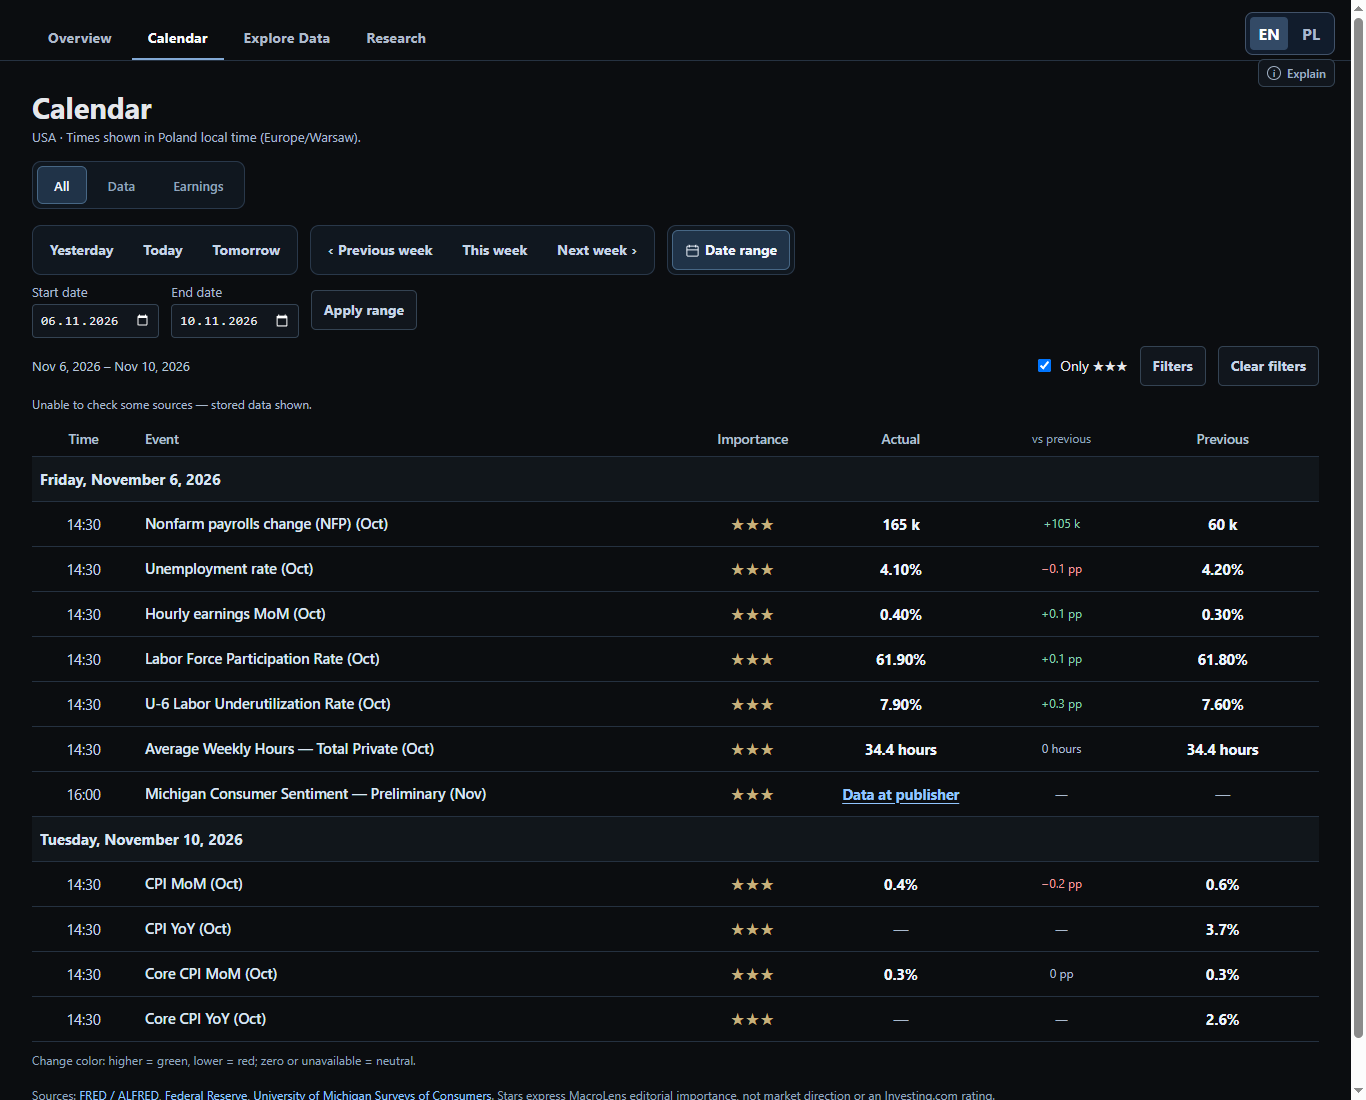
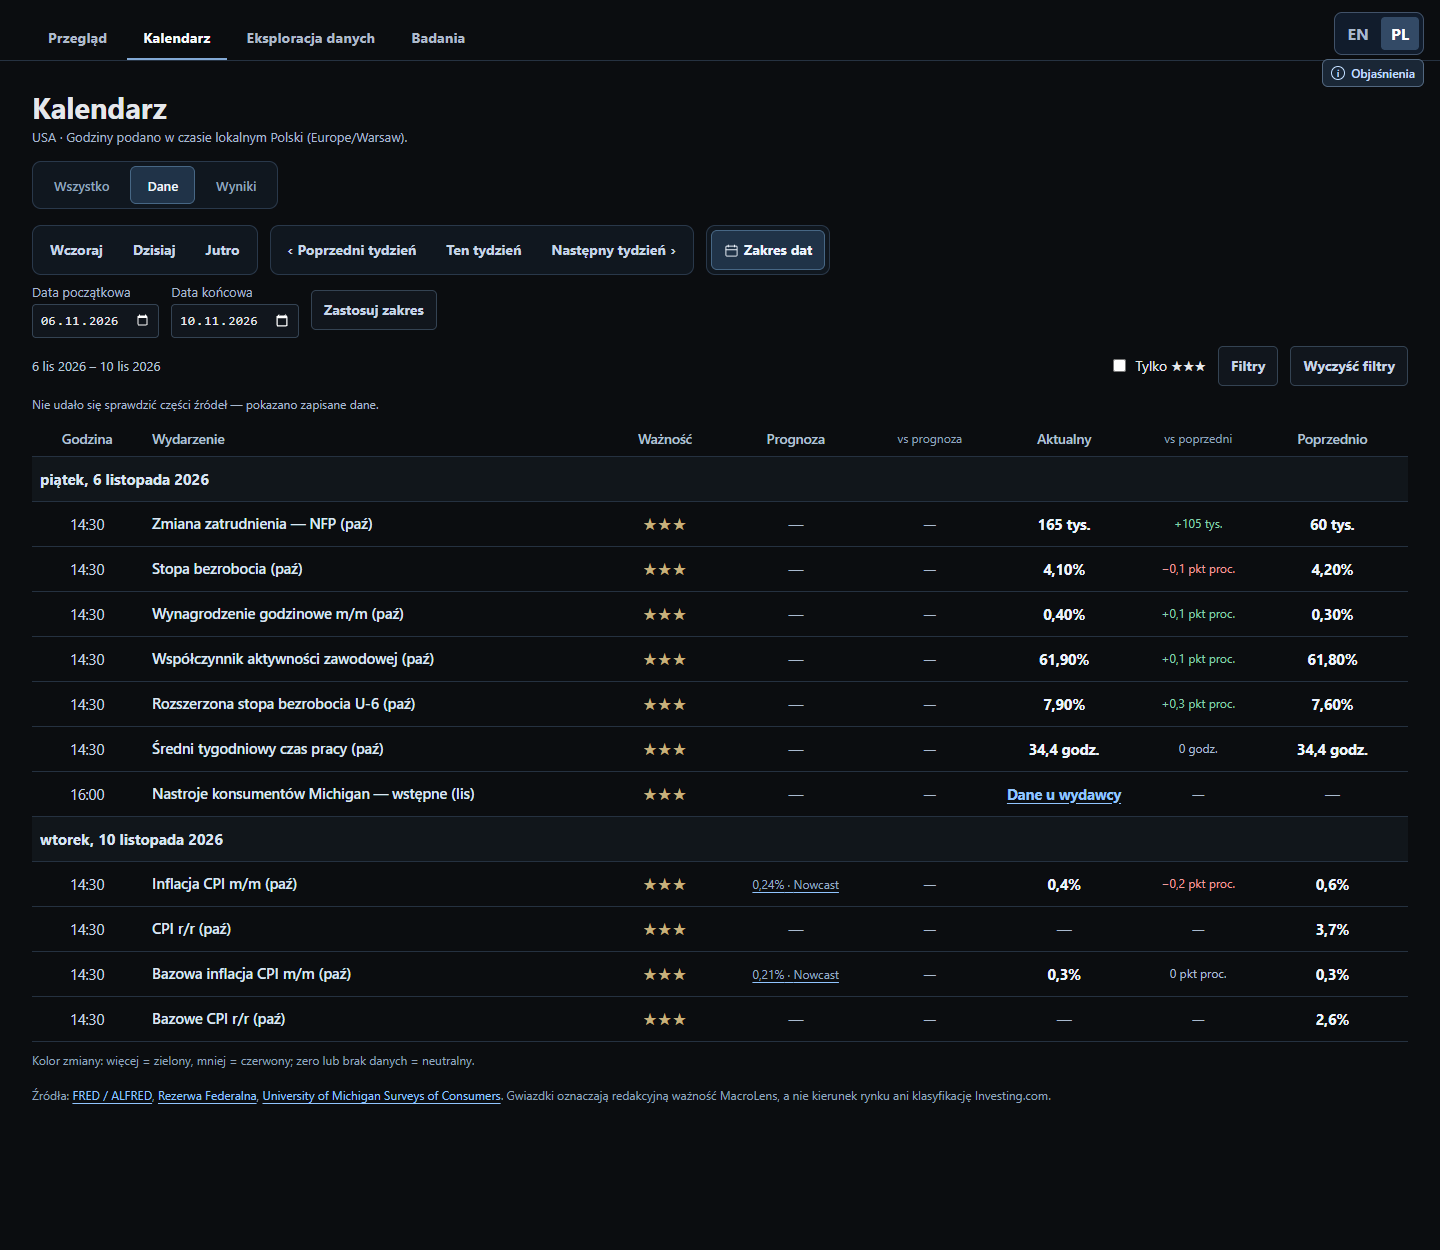
Refresh Polish portfolio README and authentic analytics screenshots

diff --git a/README.md b/README.md
@@ -10,11 +10,18 @@ Python · FastAPI · PostgreSQL · React · TypeScript · Docker
 
 [![MacroLens CI](https://github.com/pecakxkamil/macrolens/actions/workflows/ci.yml/badge.svg)](https://github.com/pecakxkamil/macrolens/actions/workflows/ci.yml)
 
-[Research](#research) · [Explore Data](#explore-data) · [Galeria](#galeria) · [Roadmapa](#roadmapa) · [Dokumentacja](docs/architecture.md) · [Uruchomienie](#uruchomienie-lokalne)
+[Badania](#badania) · [Eksploracja danych](#eksploracja-danych) · [Galeria](#galeria) · [Roadmapa](#roadmapa) · [Dokumentacja](docs/architecture.md) · [Uruchomienie](#uruchomienie-lokalne)
 
 ![Overview — przekrojowy obraz gospodarki USA w sześciu obszarach](docs/screenshots/overview.png)
 
-*Overview: rynek pracy, inflacja, wzrost, konsument, mieszkalnictwo i warunki finansowe — odczyty, poprzednie wartości i kontekst.*
+*Przegląd: sześć obszarów gospodarki USA, aktualne i poprzednie odczyty oraz nadchodzące publikacje.*
+
+W jednym miejscu można sprawdzić, co zmieniło się w gospodarce, a następnie
+przejść do historii wskaźnika lub szczegółów publikacji. Strzałki pokazują
+kierunek zmiany liczbowej, a osobne **+/−/± — potencjalny wpływ na USD**.
+To interpretacja względem poprzedniego odczytu, nie sygnał transakcyjny
+ani ocena zaskoczenia względem konsensusu. Roczne CPI ma własny, datowany wiersz;
+ostatni dostępny okres nie jest przedstawiany jako nowsza publikacja.
 
 ## Najciekawsze możliwości analityczne
 
@@ -24,9 +31,16 @@ Python · FastAPI · PostgreSQL · React · TypeScript · Docker
 - **Syntetyczny obraz gospodarki:** eksperymentalny Macro Conditions Index (MCI) z sześcioma subindeksami i jawnym rozkładem składników.
 - **Kontekst publikacji:** Actual/Previous, okres obserwacji, pochodzenie danych, rewizje i zachowane prognozy sprzed wydarzenia.
 
-## Research
+## Od publikacji do analizy
 
-### Compare Data — własne zestawienia wskaźników
+1. **Przegląd:** sprawdź odczyty w sześciu obszarach i najbliższe wydarzenia.
+2. **Kalendarz:** otwórz publikację, porównaj Actual/Previous i sprawdź okres, źródło oraz rewizje.
+3. **Eksploracja danych:** zobacz dłuższą historię, wybierz miarę lub gotowy zestaw wykresów.
+4. **Badania:** zestaw własne serie i oceń ich współzmienność na jawnie opisanej próbie.
+
+## Badania
+
+### Porównaj dane — własne zestawienia wskaźników
 
 Porównanie **dwóch lub trzech serii** makro lub zapisanych cen Nasdaq i Bitcoina,
 z osobnym wyborem miary i zakresu 1–10 lat albo całej historii.
@@ -46,17 +60,19 @@ indeksowanie nie zmienia danych użytych do korelacji.
 **Korelacja nie oznacza przyczynowości ani zdolności przewidywania rynku.**
 MCI jest eksperymentalnym wskaźnikiem opisowym, nie modelem recesji ani sygnałem inwestycyjnym.
 
-## Explore Data
+## Eksploracja danych
 
-**Data sets:** wyszukiwarka i filtry wskaźników, historia pojedynczego szeregu,
+**Zestawy danych:** wyszukiwarka i filtry wskaźników, historia pojedynczego szeregu,
 aktualna i poprzednia wartość z datami, jednostki, definicja i źródło.
 Do wyboru są dostępne transformacje i zakresy 1–10 lat.
 
-**Curated charts** zawiera gotowe porównania: CPI i Core CPI, PCE i Core PCE,
+**Wybrane wykresy** grupują dane w sześciu obszarach. Zestaw rynku pracy pokazuje
+stopę i liczbę bezrobotnych, miesięczną zmianę zatrudnienia oraz średnią
+czterotygodniową nowych wniosków o zasiłek. Pozostałe zestawy obejmują CPI i Core CPI, PCE i Core PCE,
 realną konsumpcję i dochód, rozpoczęte budowy i pozwolenia oraz rentowności
 obligacji 2Y/10Y. Są też m.in. momentum CPI i spread krzywej dochodowości.
 Interaktywne legendy pozwalają ukrywać serie, a tooltipy odczytywać wartości
-i daty. Własny dobór wielu serii jest dostępny w Research → Compare Data.
+i daty. Własny dobór wielu serii jest dostępny w Badania → Porównaj dane.
 
 ### Co można analizować w MacroLens?
 
@@ -81,23 +97,27 @@ i rewizje. Nowcasty i guidance pozostają odrębne od konsensusu rynkowego.
 Prawdziwe widoki lokalnej aplikacji z zapisanymi danymi. Obrazy są duże i ułożone
 pojedynczo; [pochodzenie i warunki wykonania](docs/screenshots/README.md).
 
-### Research — porównanie dwóch serii
+### Badania — Nasdaq, Bitcoin i liczba bezrobotnych
 
-![Research: bezrobocie i stopa Fed, dziesięcioletnia historia oraz statystyka korelacji](docs/screenshots/research.png)
+![Badania: Nasdaq Composite, Bitcoin i liczba bezrobotnych na wspólnym wykresie z trzema osiami oraz statystykami par](docs/screenshots/research.png)
 
-*Wspólny wykres UNRATE i DFF, wybór zakresu, liczba sparowanych obserwacji i korelacja Pearsona. To opis zapisanej próby, nie wniosek o przyczynowości.*
+*Pięcioletnie porównanie NASDAQCOM, CBBTCUSD i UNEMPLOY. Każda seria ma własną jednostkę; poniżej wykresu widać korelację Pearsona, liczbę obserwacji i zakres dat dla każdej pary. Liczba bezrobotnych to poziom w tysiącach osób, nie stopa bezrobocia.*
 
-### Explore Data — inflacja i jej dynamika
+W tym przykładzie korelacje dotyczą **poziomów** i mogą odzwierciedlać wspólne
+trendy. Różne pary mogą mieć różną liczbę obserwacji. To punkt wyjścia do
+porównania innych miar i zakresów, nie dowód, że bezrobocie wyjaśnia ceny aktywów.
 
-![Explore Data: porównania CPI i Core CPI, PCE i Core PCE oraz momentum inflacji](docs/screenshots/explore-data.png)
+### Eksploracja danych — rynek pracy
 
-*Pięcioletnie wykresy bieżącej zapisanej historii i pochodnych. Ich definicje i wersje nie muszą odpowiadać odczytom przypisanym do publikacji w Calendar.*
+![Eksploracja danych: stopa bezrobocia, liczba bezrobotnych, miesięczna zmiana zatrudnienia i czterotygodniowa średnia wniosków o zasiłek](docs/screenshots/explore-data.png)
+
+*Jeden zestaw, cztery perspektywy rynku pracy i pięcioletnia historia. Każdy wykres zachowuje własną definicję, jednostkę i częstotliwość. Bieżące wersje historii mogą zawierać rewizje i różnić się od wersji przypisanych do publikacji w kalendarzu.*
 
 ### Calendar — publikacje i odczyty
 
 ![Kalendarz publikacji makro z wartościami Actual i Previous](docs/screenshots/calendar.png)
 
-*Employment i CPI: okresy, godziny, aktualne i poprzednie odczyty oraz jawne braki.*
+*Widok „Dane”, zakres 6–10 listopada 2026. Filtr „Tylko ★★★” jest wyłączony; pozostają domyślne poziomy ważności 2★ i 3★. Employment i CPI pokazują okresy, godziny, prognozy tam, gdzie są dostępne, oraz Actual/Previous. Braki pozostają jawne.*
 
 ### Earnings — wyniki spółek
 
@@ -167,6 +187,10 @@ i redystrybucji wydawców.
 [Pełne zasady, historia i wzory](docs/methodology.md).
 
 ## Testy i CI
+
+Zmiany Przeglądu obejmują testy odczytu rocznego CPI, reguł wpływu na USD,
+obsługi braków i zgodności widoków PL/EN. Dokładne wyniki dotyczą konkretnego
+commita i są dostępne w uruchomieniach CI.
 
 GitHub Actions sprawdza backend pytest, frontend Vitest, TypeScript/build,
 20 etapów integracji na odrębnym PostgreSQL 17 oraz integralność F1 V6

diff --git a/docs/screenshots/README.md b/docs/screenshots/README.md
@@ -1,60 +1,22 @@
-# Screenshot provenance
+# Pochodzenie zrzutów ekranu
 
-Captured from the real populated local MacroLens instance on 16 November 2026,
-English, desktop viewport 1366 x 1100. Images contain page content only, without
-browser chrome, local filesystem paths, tokens or credentials. All four images
-were visually reviewed before publication.
+Zrzuty przedstawiają rzeczywistą lokalną instancję MacroLens z zapisanymi danymi. Nie podstawiano wartości ani odpowiedzi API. Obrazy pokazują stronę aplikacji, bez paska adresu, ścieżek lokalnych i poświadczeń.
 
-- `overview.png`: six-domain Overview, existing stored publication.
-- `calendar.png`: 6?10 November, the existing Only three-star filter selected.
-- `macro-detail.png`: expanded October CPI MoM reading on 10 November.
-- `earnings.png`: November company results and upcoming events.
+## Odświeżenie galerii — 19 listopada 2026
 
-No API values, source responses or displayed metrics were substituted. The
-screenshot browser used hidden-page visibility to avoid triggering the normal
-automatic POST refresh. This is a capture condition, not a product demo mode.
-Partial-source checks and unavailable readings remain visible. Some Overview
-readings and Calendar readings use different source versions or transformations;
-these screenshots are not evidence of equal precision, current completeness or
-future release coverage. They are a recorded walkthrough, not a hosted demo.
+| Plik | Ustawienia i zakres | Rozmiar | SHA-256 |
+|---|---|---|---|
[4 lines of base64/hex data omitted]
 
-The macro-detail screenshot was recaptured on 16 November 2026 after enlarging
-the responsive trend chart, centering its heading, and vertically centering
-the chart against the full event description. It uses the same real
-API/Vite, desktop viewport and read-only capture conditions described above.
-The other three screenshots are unchanged.
+Sesja używała ukrytej widoczności dokumentu, aby nie wywołać automatycznego POST refresh. Żądania inne niż lokalne GET były blokowane; nie wystąpiła próba ich wykonania w finalnych capture. Zachowano komunikaty o częściowej dostępności źródeł i brakujące odczyty. To warunki wykonania zrzutów, nie tryb demonstracyjny produktu.
 
-## Analytics portfolio views — 16 November 2026
+Research pokazuje bieżące zapisane wersje danych i korelacje poziomów. Osobne osie nie oznaczają wspólnej skali ani porównywalnych jednostek. Współzmienność może wynikać z trendów; liczby obserwacji i zakresy par są widoczne. Zachowano atrybucję Nasdaq i Coinbase widoczną w aplikacji.
 
-- `research.png`: real Research / Compare Data view, UNRATE and DFF, 10Y range,
-  original-value scale, visible Pearson correlation, pair count and paired dates.
-- `explore-data.png`: real Explore Data / Curated charts, Inflation category,
-  5Y range, headline/core CPI and PCE plus the beginning of CPI momentum.
+## Zachowane obrazy
 
-Both images are unchanged 1366 x 1100 desktop captures, English, using the
-normal stored dataset and API/Vite. No synthetic values, source refresh or
-authorization change was used. These current-vintage histories can include
-revisions and differ from publication-bound Calendar readings or official
-publisher definitions. They do not establish present-day provider completeness.
-The analytics additions retain the existing screenshots and roadmap, including
-the macro-detail layout update described above.
+`earnings.png` pozostaje bez zmian: prawdziwy angielski widok wyników z 16 listopada 2026, 1366 × 1100. `macro-detail.png` również pozostaje bez zmian: angielski widok szczegółów CPI z powiększonym wykresem, wykonany 16 listopada 2026, 1366 × 1100.
 
-The capture tab used hidden document visibility to avoid automatic refresh;
-non-GET and non-local requests were blocked. No such blocked request occurred
-during the two captures. New screenshots were visually reviewed before publication.
-
-## Overview framing update ? 17 November 2026
-
-`overview.png` was recaptured from the real local API/Vite at 1366 x 1346.
-The taller viewport retains all six domains and the Upcoming events panel,
-including the three-star Advance Monthly Sales for Retail and Food Services
-event on 17 November at 14:30 PL. No event, date, importance or source value
-was edited. Hidden-page visibility and request guards prevented refresh during
-capture; only normal GET responses were observed. Other images are unchanged.
-
-## Annual CPI panel ? 17 November 2026
-
-Overview was recaptured at 1366 x 1421 after adding the annual CPI panel.
-The real Calendar API supplies the last available September NSA reading and
-October missing-base explanation; no percentage is hardcoded in production UI.
-The taller frame retains Upcoming events. Other images remain unchanged.
+Starsze zrzuty pozostają dostępne w historii Git. Obrazy dokumentują stan lokalnej instancji, nie gwarantują bieżącej kompletności dostawców ani przyszłej obsługi publikacji. Repozytorium nie zawiera bazy, tokenów ani prywatnych potwierdzeń pobrania.
